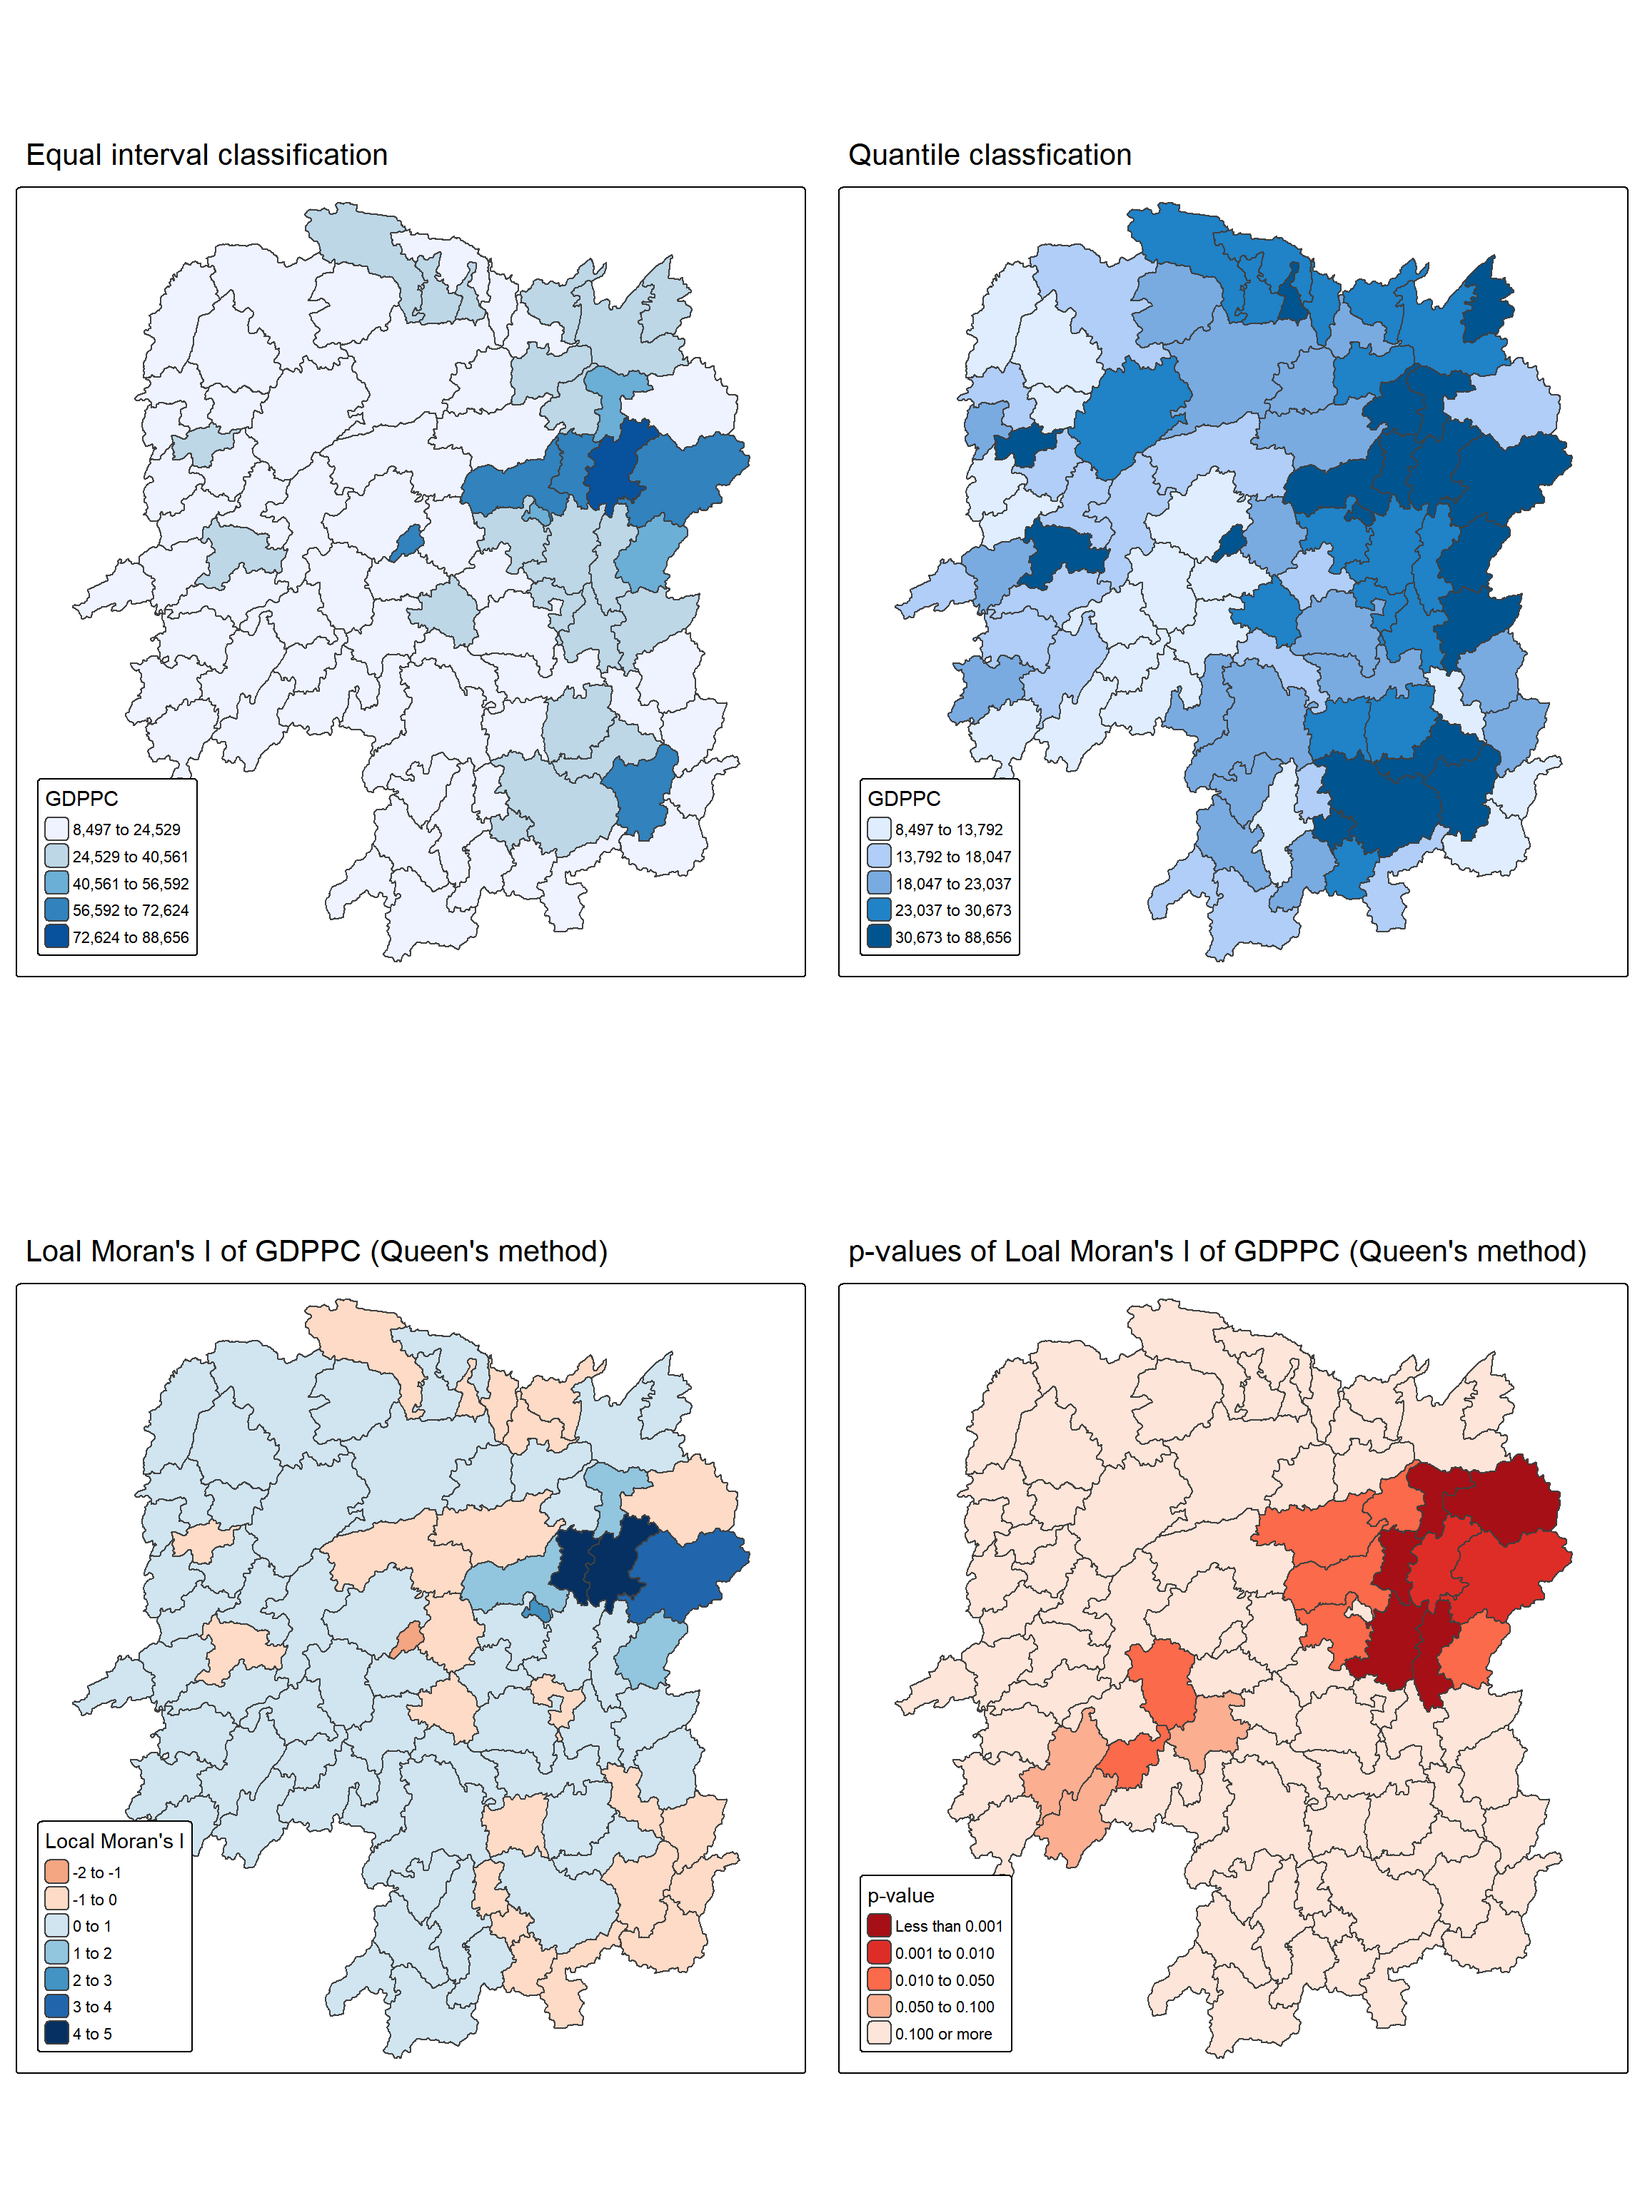
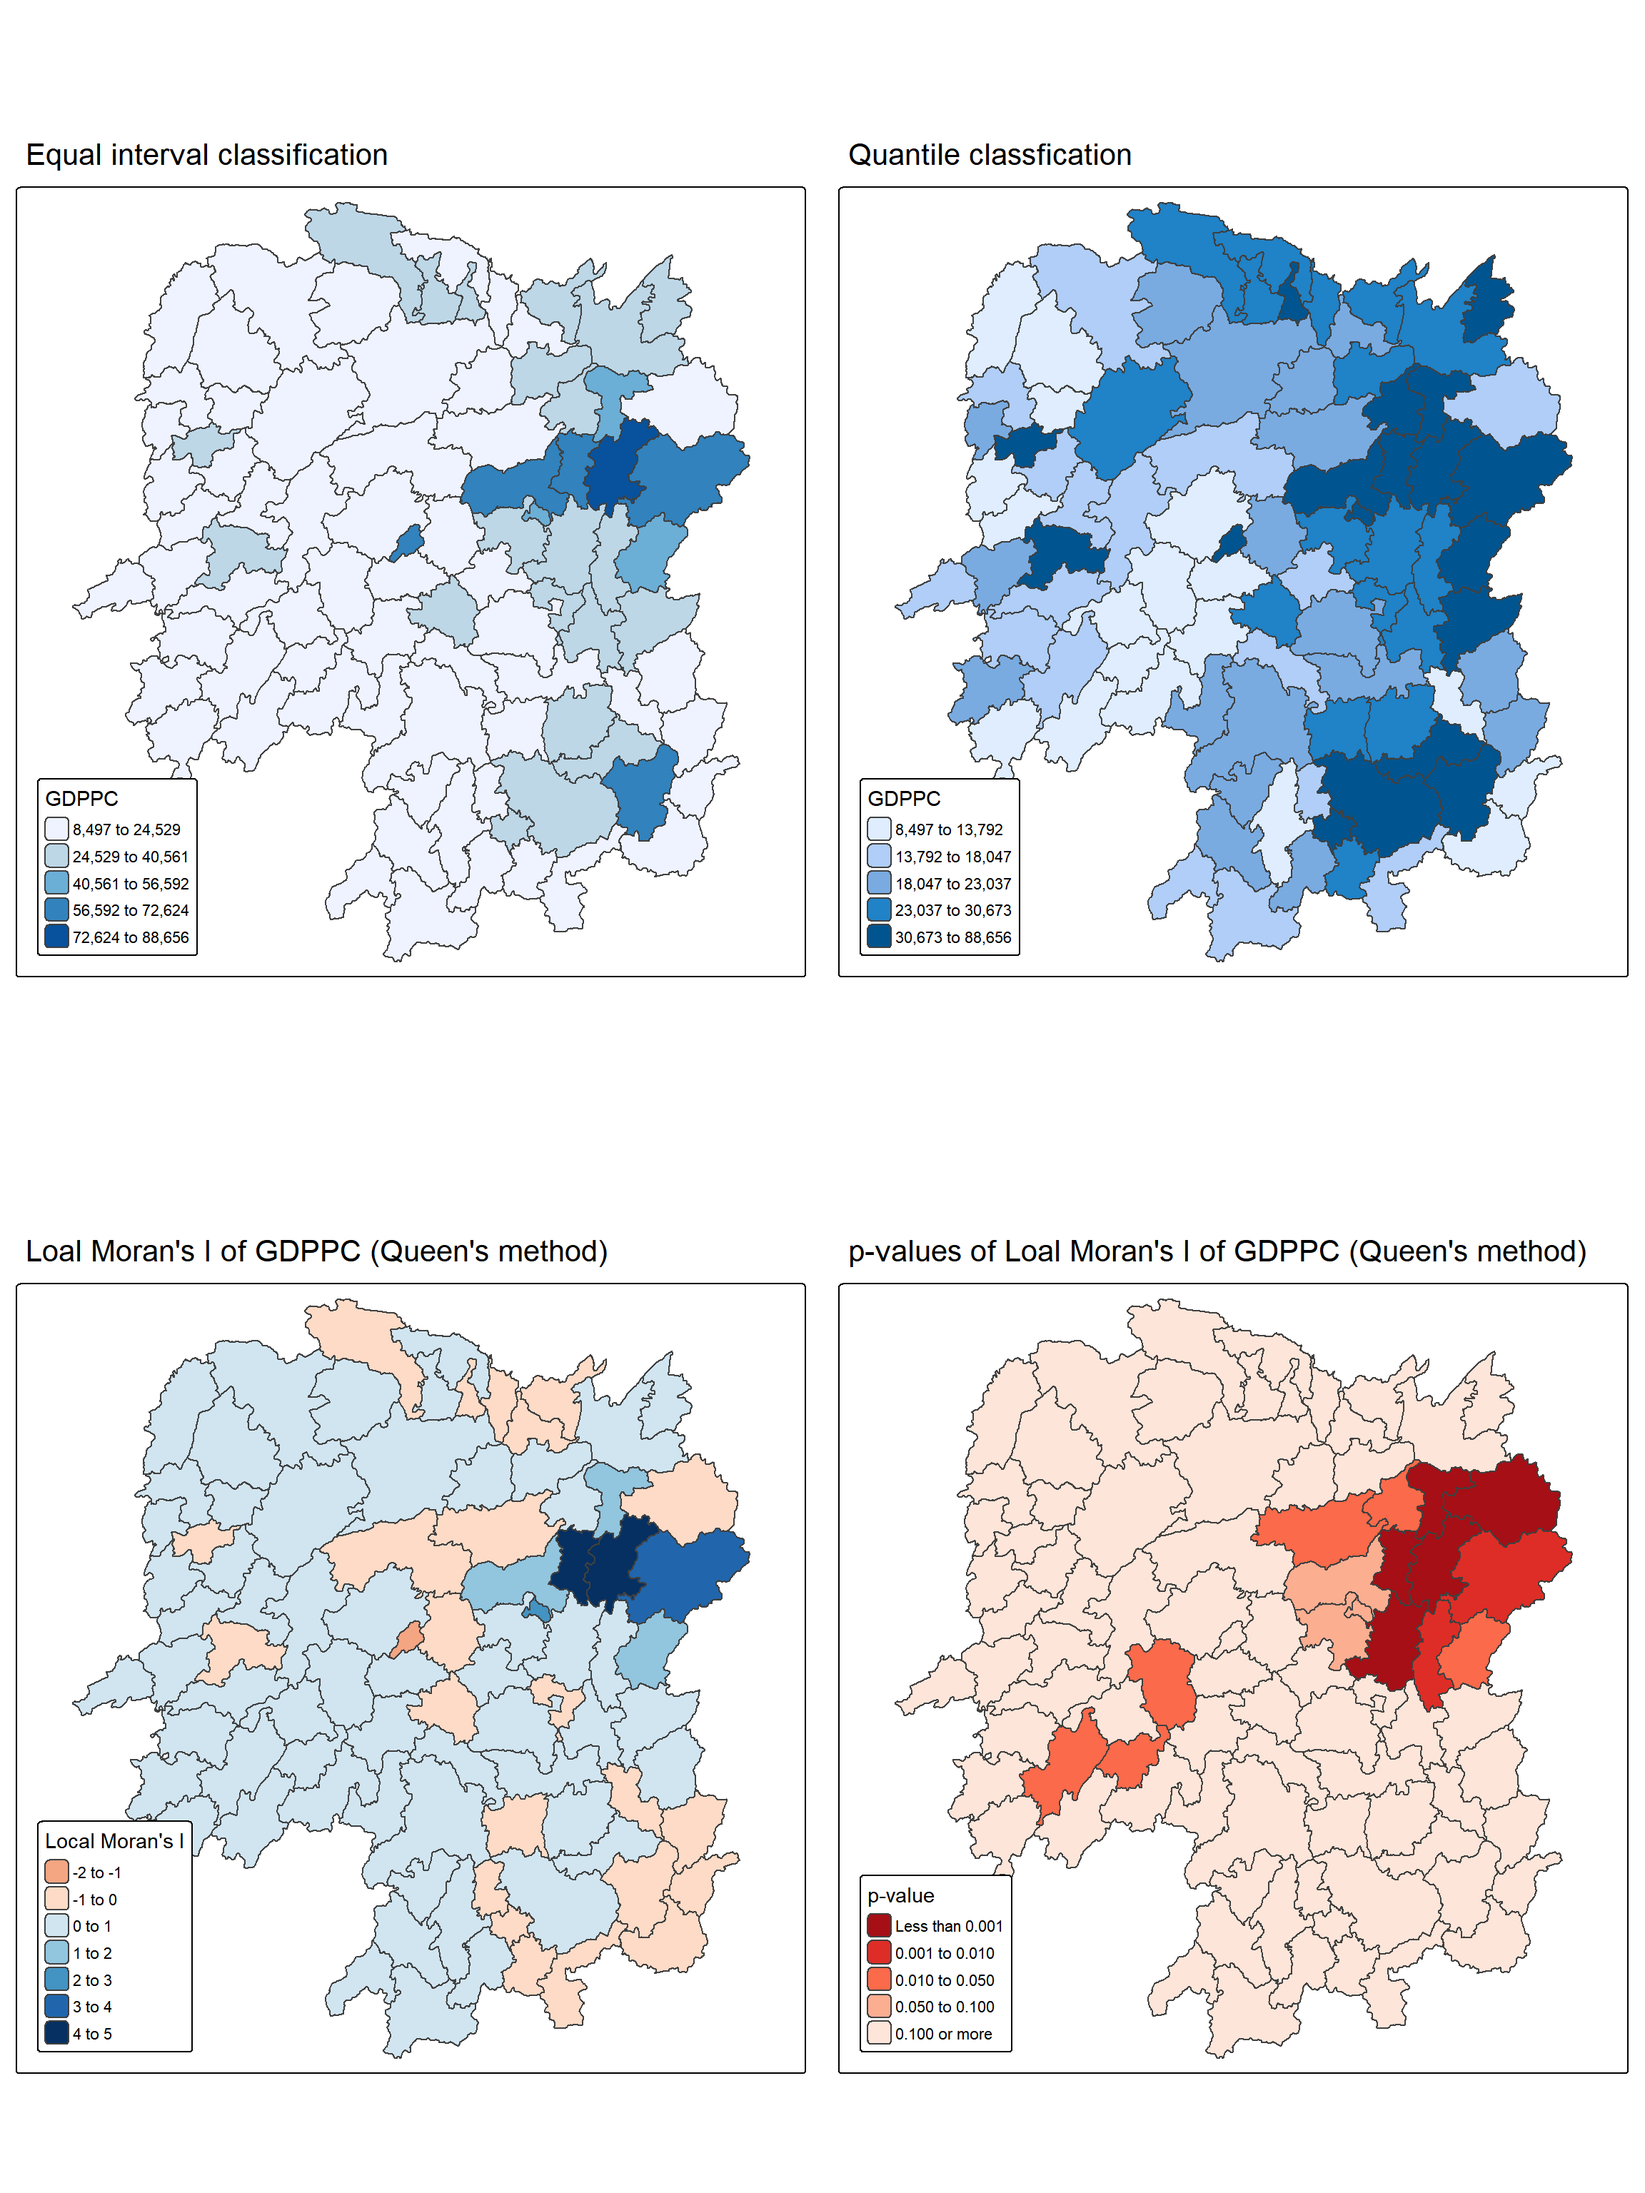
update the reference in both hands-on ex05-1 and 2

Changed region(s): [[0.7812, 0.6875, 0.9062, 0.7812], [0.625, 0.7812, 0.6875, 0.8438], [0.7188, 0.75, 0.75, 0.8125]]

diff --git a/_site/Hands-on_Ex/Hands-on_Ex05/Hands-on_Ex05-2.html b/_site/Hands-on_Ex/Hands-on_Ex05/Hands-on_Ex05-2.html
@@ -441,6 +441,7 @@ pre > code.sourceCode > span > a:first-child::before { text-decoration: underlin
   </ul>
 </li>
   <li><a href="#plotting-summary" id="toc-plotting-summary" class="nav-link" data-scroll-target="#plotting-summary"><span class="header-section-number">5</span> Plotting Summary</a></li>
+  <li><a href="#reference" id="toc-reference" class="nav-link" data-scroll-target="#reference"><span class="header-section-number">6</span> Reference</a></li>
   </ul></nav>
     </div>
 <!-- main -->
@@ -802,7 +803,8 @@ Link number distribution:
 <span class="header-section-number">3.3</span> Computing Local Moran’s I</h3>
 <p>The code chunk below uses <a href=""><code>local_moran()</code></a> of <strong>spdep</strong> to calculate local Moran’s I for hunan GDPPC.</p>
 <div class="cell">
-<div class="code-copy-outer-scaffold"><div class="sourceCode" id="cb18"><pre class="downlit sourceCode r code-with-copy"><code class="sourceCode R"><span><span class="va">lisa</span> <span class="op">&lt;-</span> <span class="va">wm_q</span> <span class="op">%&gt;%</span></span>
+<div class="code-copy-outer-scaffold"><div class="sourceCode" id="cb18"><pre class="downlit sourceCode r code-with-copy"><code class="sourceCode R"><span><span class="fu"><a href="https://rdrr.io/r/base/Random.html">set.seed</a></span><span class="op">(</span><span class="fl">1234</span><span class="op">)</span></span>
+<span><span class="va">lisa</span> <span class="op">&lt;-</span> <span class="va">wm_q</span> <span class="op">%&gt;%</span></span>
 <span>  <span class="fu">mutate</span><span class="op">(</span>local_moran <span class="op">=</span> <span class="fu">local_moran</span><span class="op">(</span></span>
 <span>    <span class="va">GDPPC</span>, <span class="va">nb</span>, <span class="va">wt</span>, nsim <span class="op">=</span> <span class="fl">99</span><span class="op">)</span>,</span>
 <span>    .before <span class="op">=</span> <span class="fl">1</span><span class="op">)</span> <span class="op">%&gt;%</span></span>
@@ -944,7 +946,8 @@ Link number distribution:
 <div class="code-copy-outer-scaffold"><div class="sourceCode" id="cb24"><pre class="downlit sourceCode r code-with-copy"><code class="sourceCode R"><span><span class="va">lisa</span> <span class="op">&lt;-</span> <span class="va">lisa</span> <span class="op">%&gt;%</span></span>
 <span>  <span class="fu">mutate</span><span class="op">(</span>lag_GDPPC <span class="op">=</span> <span class="fu">st_lag</span><span class="op">(</span></span>
 <span>    <span class="va">GDPPC</span>, <span class="va">nb</span>, <span class="va">wt</span><span class="op">)</span>,</span>
-<span>    .before <span class="op">=</span> <span class="fl">1</span><span class="op">)</span></span></code></pre></div><button title="Copy to Clipboard" class="code-copy-button"><i class="bi"></i></button></div>
+<span>    .before <span class="op">=</span> <span class="fl">1</span><span class="op">)</span><span class="op">%&gt;%</span></span>
+<span>  <span class="fu">unnest</span><span class="op">(</span><span class="va">lag_GDPPC</span><span class="op">)</span></span></code></pre></div><button title="Copy to Clipboard" class="code-copy-button"><i class="bi"></i></button></div>
 </div>
 <p>Then code chunk plots the Moran Scatterplot of GDPPC by using ggplot.</p>
 <div class="cell">
@@ -1065,7 +1068,7 @@ Link number distribution:
 <span>  <span class="op">)</span> <span class="op">+</span></span>
 <span>  <span class="fu">tm_borders</span><span class="op">(</span><span class="op">)</span> <span class="op">+</span></span>
 <span>  <span class="fu">tm_title</span><span class="op">(</span><span class="st">"Local Moran's I Clusters (p &lt; 0.05)"</span><span class="op">)</span></span>
-<span><span class="fu">tmap_arrange</span><span class="op">(</span><span class="va">equal</span>, <span class="va">lisa_map</span>,<span class="va">quantile</span>, <span class="va">lisa_map</span>,<span class="va">ii.map</span>,<span class="va">lisa_map</span>,  asp<span class="op">=</span><span class="fl">1</span>, ncol<span class="op">=</span><span class="fl">2</span><span class="op">)</span></span></code></pre></div><button title="Copy to Clipboard" class="code-copy-button"><i class="bi"></i></button></div>
+<span><span class="fu">tmap_arrange</span><span class="op">(</span><span class="va">ii.map</span>,<span class="va">lisa_map</span>,  asp<span class="op">=</span><span class="fl">1</span>, ncol<span class="op">=</span><span class="fl">2</span><span class="op">)</span></span></code></pre></div><button title="Copy to Clipboard" class="code-copy-button"><i class="bi"></i></button></div>
 <div class="cell-output-display">
 <div>
 <figure class="figure"><p><img src="Hands-on_Ex05-2_files/figure-html/unnamed-chunk-22-1.png" class="img-fluid figure-img" width="1152"></p>
@@ -1084,7 +1087,7 @@ Note
 </div>
 <div class="callout-body-container callout-body">
 <p><strong>What statistical conclusion can you drawfrom the LISA map above?</strong></p>
-<p>At the 95% confidence level, the LISA map shows the eastern–central regions around <strong>Chengdu</strong> form clustered wealthy areas, while the western–southern county of <strong>Wugang</strong> is identified as a least wealthy area.</p>
+<p>At the 95% confidence level, the LISA map shows the eastern–central regions around <strong>Chengdu</strong> form clustered wealthy areas, while the western–southern counties are identified as least wealthy areas.</p>
 </div>
 </div>
 </div>
@@ -1150,7 +1153,7 @@ Link number distribution:
 <p>Note that for Gi analysis, <code>include_self()</code> must be used to ensure each location includes itself in the neighbourhood definition.</p>
 </section><section id="computing-adaptive-distance-weights" class="level4" data-number="4.1.2"><h4 data-number="4.1.2" class="anchored" data-anchor-id="computing-adaptive-distance-weights">
 <span class="header-section-number">4.1.2</span> Computing adaptive distance weights</h4>
-<p>In a fixed distance weight matrix, dense urban areas have many neighbours while rural areas have few, which smooths neighbour relationships unevenly. To control neighbour numbers, k-nearest neighbours can be used (with or without symmetry). Here, we compute <strong>a adaptive distance weight matrix </strong> using <a href="https://sfdep.josiahparry.com/reference/st_knn"><code>st_knn()</code></a> and st_weights((http://sfdep.josiahparry.com/reference/st_weights)) from the sfdep package.</p>
+<p>In a fixed distance weight matrix, dense urban areas have many neighbours while rural areas have few, which smooths neighbour relationships unevenly. To control neighbour numbers, k-nearest neighbours can be used (with or without symmetry). Here, we compute <strong>a adaptive distance weight matrix </strong> using <a href="https://sfdep.josiahparry.com/reference/st_knn"><code>st_knn()</code></a> and st_weights((http://sfdep.josiahparry.com/reference/st_weights)) from the <strong>sfdep</strong> package.</p>
 <div class="cell">
 <div class="code-copy-outer-scaffold"><div class="sourceCode" id="cb38"><pre class="downlit sourceCode r code-with-copy"><code class="sourceCode R"><span><span class="va">hunan_adw</span> <span class="op">&lt;-</span> <span class="va">hunan</span> <span class="op">%&gt;%</span></span>
 <span>  <span class="fu">mutate</span><span class="op">(</span>nb <span class="op">=</span> <span class="fu">include_self</span><span class="op">(</span></span>
@@ -1188,7 +1191,8 @@ Link number distribution:
 <span class="header-section-number">4.2</span> Computing Local Gi*</h3>
 <p>Local Gi* (Getis–Ord) identifies statistically significant hot and cold spots by comparing neighbourhood values to the global total, producing Z-scores and p-values. In this section, we perform Gi analysis using <a href="https://sfdep.josiahparry.com/reference/local_gstar"><code>local_gstar_perm()</code></a> from the sfdep package.</p>
 <div class="cell">
-<div class="code-copy-outer-scaffold"><div class="sourceCode" id="cb42"><pre class="downlit sourceCode r code-with-copy"><code class="sourceCode R"><span><span class="va">HCSA_fdw</span> <span class="op">&lt;-</span> <span class="va">hunan_fdw</span> <span class="op">%&gt;%</span></span>
+<div class="code-copy-outer-scaffold"><div class="sourceCode" id="cb42"><pre class="downlit sourceCode r code-with-copy"><code class="sourceCode R"><span><span class="fu"><a href="https://rdrr.io/r/base/Random.html">set.seed</a></span><span class="op">(</span><span class="fl">1234</span><span class="op">)</span></span>
+<span><span class="va">HCSA_fdw</span> <span class="op">&lt;-</span> <span class="va">hunan_fdw</span> <span class="op">%&gt;%</span></span>
 <span>  <span class="fu">mutate</span><span class="op">(</span></span>
 <span>    gistar <span class="op">=</span> <span class="fu">local_gstar_perm</span><span class="op">(</span></span>
 <span>      <span class="va">GDPPC</span>, <span class="va">nb</span>, <span class="va">wt</span>, nsim <span class="op">=</span> <span class="fl">99</span><span class="op">)</span>,</span>
@@ -1336,6 +1340,7 @@ Note
 </div>
 </section></section></section><section id="plotting-summary" class="level2" data-number="5"><h2 data-number="5" class="anchored" data-anchor-id="plotting-summary">
 <span class="header-section-number">5</span> Plotting Summary</h2>
+<p>Both Local Moran’s I (LISA) and Hot Spot/Cold Spot Analysis (HCSA) reveal similar spatial patterns of GDPPC in Hunan. LISA identifies hot clusters in the eastern–central counties and cold clusters in the western–southern counties, while also detecting spatial outliers (e.g.low surrounded by high). HCSA confirms the same hot spots and cold spots, but focuses only on statistically significant clustering, without distinguishing outliers. Thus, LISA provides finer diagnostic detail, whereas HCSA highlights the most robust clusters.</p>
 <p>The code chunk below shows the LISA map and HCSA map together.</p>
 <div class="cell">
 <div class="code-copy-outer-scaffold"><div class="sourceCode" id="cb48"><pre class="downlit sourceCode r code-with-copy"><code class="sourceCode R"><span><span class="fu">tmap_arrange</span><span class="op">(</span><span class="va">lisa_map</span>, <span class="va">HCSA_map</span>, asp<span class="op">=</span><span class="fl">1</span>, ncol<span class="op">=</span><span class="fl">2</span><span class="op">)</span></span></code></pre></div><button title="Copy to Clipboard" class="code-copy-button"><i class="bi"></i></button></div>
@@ -1346,6 +1351,9 @@ Note
 </div>
 </div>
 </div>
+</section><section id="reference" class="level2" data-number="6"><h2 data-number="6" class="anchored" data-anchor-id="reference">
+<span class="header-section-number">6</span> Reference</h2>
+<p>Kam, T. S. 8 Spatial Weights and Applications. R for Geospatial Data Science and Analytics. https://r4gdsa.netlify.app/chap10</p>
 
 
 </section></main><!-- /main --><script id="quarto-html-after-body" type="application/javascript">

diff --git a/_site/Hands-on_Ex/Hands-on_Ex05/Hands-on_Ex05-1.html b/_site/Hands-on_Ex/Hands-on_Ex05/Hands-on_Ex05-1.html
@@ -452,6 +452,7 @@ pre > code.sourceCode > span > a:first-child::before { text-decoration: underlin
   <li><a href="#compute-and-plotting-gearys-c-correlogram" id="toc-compute-and-plotting-gearys-c-correlogram" class="nav-link" data-scroll-target="#compute-and-plotting-gearys-c-correlogram"><span class="header-section-number">6.2</span> Compute and Plotting Geary’s C correlogram</a></li>
   </ul>
 </li>
+  <li><a href="#reference" id="toc-reference" class="nav-link" data-scroll-target="#reference"><span class="header-section-number">7</span> Reference</a></li>
   </ul></nav>
     </div>
 <!-- main -->
@@ -1162,9 +1163,12 @@ Note
 <p>The spatial correlogram shows that Geary’s C <strong>increases</strong> with distance: starting <strong>negative</strong> (dispersion/ dissimilarity) at short lags, reaching <strong>CSR</strong> around step 4 (p= 0.88 &gt; 0.05), and becoming significantly <strong>positive</strong> (clustering/ similarity) at longer distances.</p>
 </div>
 </div>
+</section></section><section id="reference" class="level2" data-number="7"><h2 data-number="7" class="anchored" data-anchor-id="reference">
+<span class="header-section-number">7</span> Reference</h2>
+<p>Kam, T. S. 8 Spatial Weights and Applications. R for Geospatial Data Science and Analytics. https://r4gdsa.netlify.app/chap09</p>
 
 
-</section></section></main><!-- /main --><script id="quarto-html-after-body" type="application/javascript">
+</section></main><!-- /main --><script id="quarto-html-after-body" type="application/javascript">
   window.document.addEventListener("DOMContentLoaded", function (event) {
     // Ensure there is a toggle, if there isn't float one in the top right
     if (window.document.querySelector('.quarto-color-scheme-toggle') === null) {
